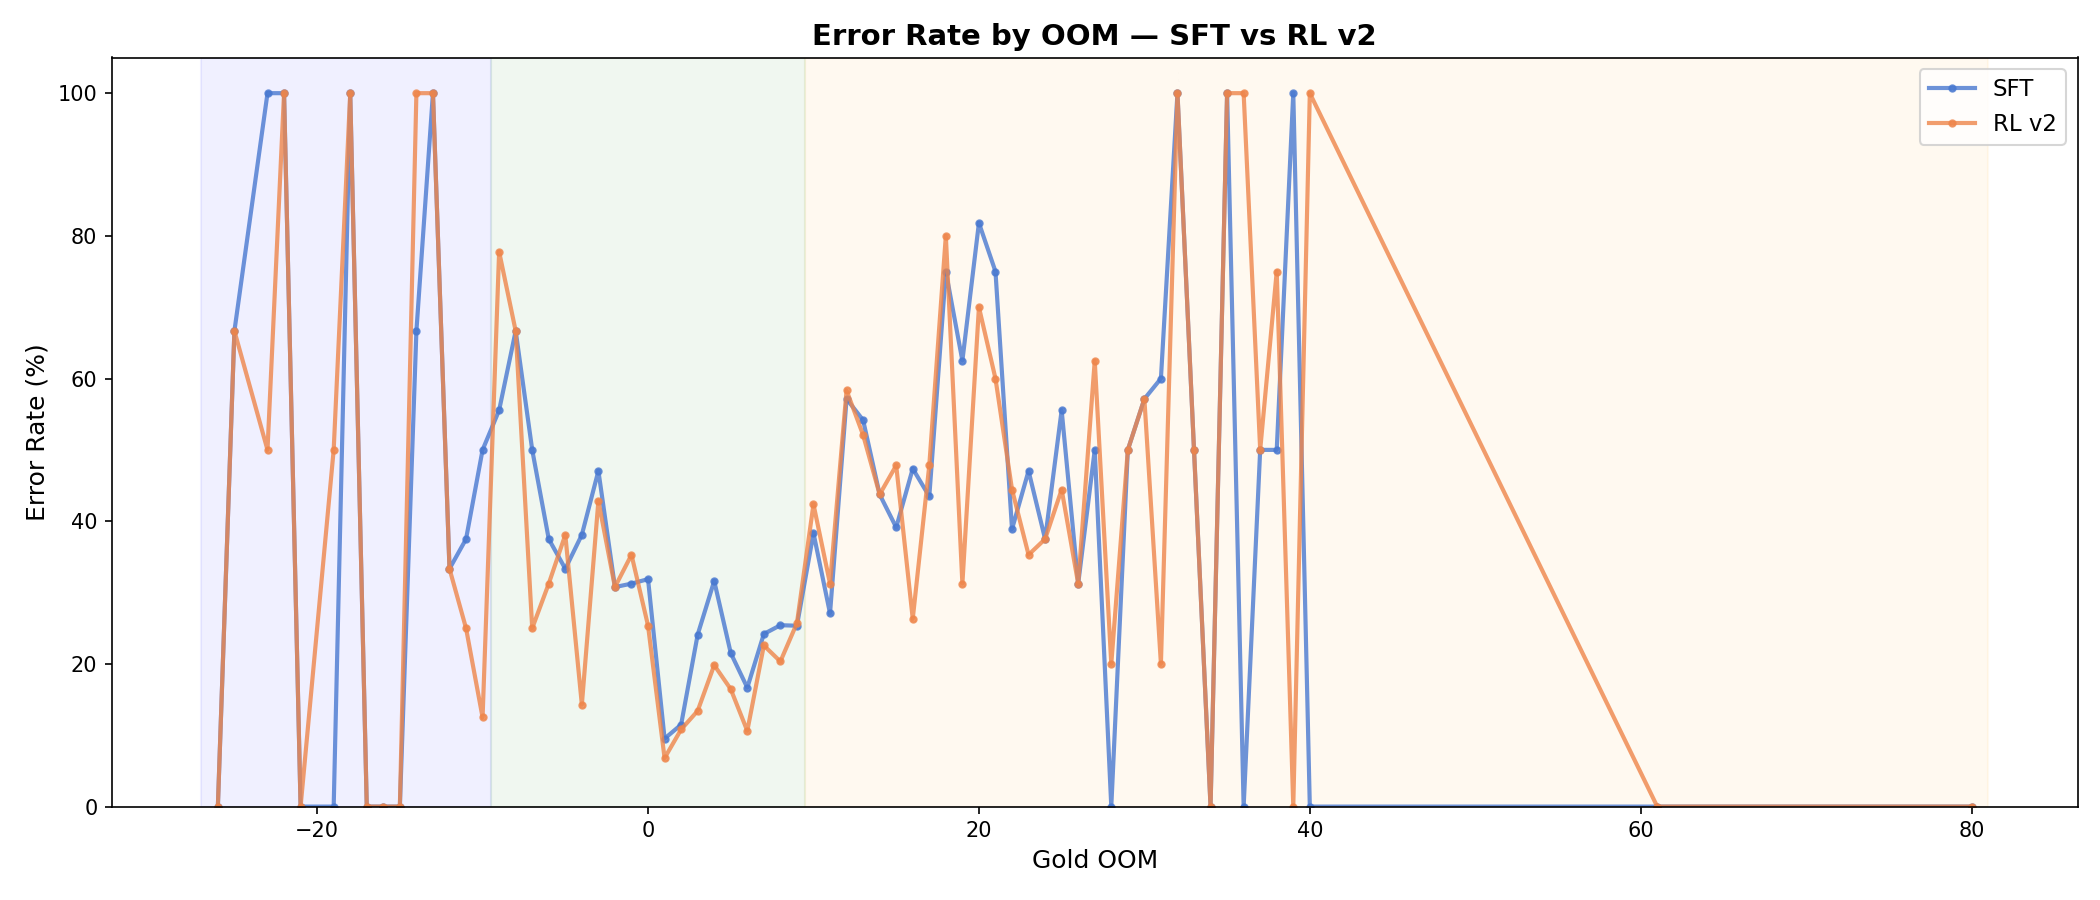
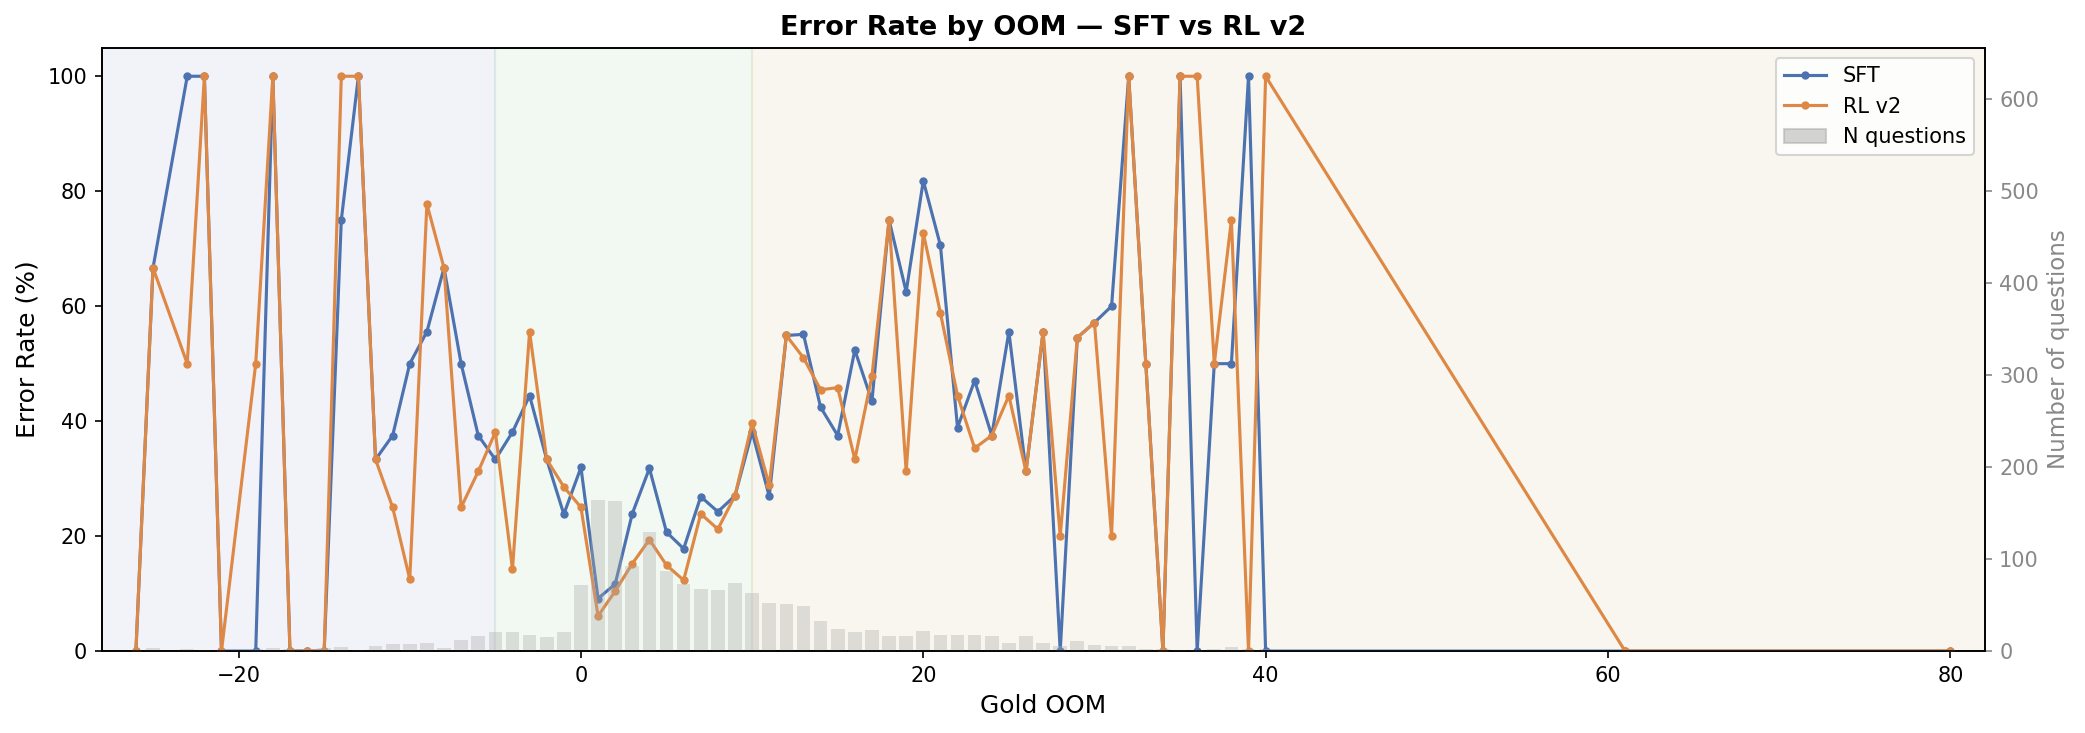
Add N-questions histogram to SFT vs RL v2 error rate plot; update report

diff --git a/scripts/plot_error_rate_sft_vs_rl.py b/scripts/plot_error_rate_sft_vs_rl.py
@@ -1,0 +1,81 @@
+"""Regenerate error_rate_sft_vs_rl.png with N-questions histogram (right axis)."""
+
+import json
+import numpy as np
+import matplotlib.pyplot as plt
+import matplotlib.patches as mpatches
+from collections import defaultdict
+from pathlib import Path
+
+ROOT = Path(__file__).parent.parent
+SFT_FILE = ROOT / "run/sft_filtered_v1_v2_val.jsonl"
+RL_FILE  = ROOT / "run/rl_v2_val.jsonl"
+OUT      = ROOT / "plots/error_rate_sft_vs_rl.png"
+
+
+def load(path):
+    with open(path) as f:
+        return [json.loads(l) for l in f]
+
+
+def error_rate_by_oom(rows, min_n=1):
+    buckets = defaultdict(list)
+    for r in rows:
+        if r.get("gold_oom") is not None:
+            buckets[int(r["gold_oom"])].append(1 if r["score"] == 0 else 0)
+    ooms, rates, ns = [], [], []
+    for oom in sorted(buckets):
+        vals = buckets[oom]
+        if len(vals) >= min_n:
+            ooms.append(oom)
+            rates.append(100 * np.mean(vals))
+            ns.append(len(vals))
+    return np.array(ooms), np.array(rates), np.array(ns)
+
+
+sft_rows = load(SFT_FILE)
+rl_rows  = load(RL_FILE)
+
+sft_ooms, sft_rates, sft_ns = error_rate_by_oom(sft_rows)
+rl_ooms,  rl_rates,  rl_ns  = error_rate_by_oom(rl_rows)
+
+# Histogram uses RL data (same val set, so N per OOM is identical)
+hist_ooms = rl_ooms
+hist_ns   = rl_ns
+
+fig, ax1 = plt.subplots(figsize=(14, 5))
+ax2 = ax1.twinx()
+
+# Background regions
+ax1.axvspan(-30, -5,  alpha=0.10, color="#8888cc", zorder=0)
+ax1.axvspan(-5,  10,  alpha=0.10, color="#88cc88", zorder=0)
+ax1.axvspan(10,  90,  alpha=0.10, color="#ccaa66", zorder=0)
+
+# Histogram (grey, behind lines)
+ax2.bar(hist_ooms, hist_ns, width=0.8, color="#aaaaaa", alpha=0.35,
+        zorder=1, label="N questions")
+ax2.set_ylabel("Number of questions", color="#888888", fontsize=11)
+ax2.tick_params(axis="y", colors="#888888")
+ax2.set_ylim(0, max(hist_ns) * 4)   # keep bars short like Image #1
+
+# Error rate lines
+ax1.plot(sft_ooms, sft_rates, color="#4c72b0", marker="o", markersize=3,
+         linewidth=1.5, label="SFT", zorder=3)
+ax1.plot(rl_ooms,  rl_rates,  color="#dd8844", marker="o", markersize=3,
+         linewidth=1.5, label="RL v2", zorder=3)
+
+ax1.set_xlabel("Gold OOM", fontsize=12)
+ax1.set_ylabel("Error Rate (%)", fontsize=12)
+ax1.set_title("Error Rate by OOM — SFT vs RL v2", fontsize=13, fontweight="bold")
+ax1.set_ylim(0, 105)
+ax1.set_xlim(min(sft_ooms.min(), rl_ooms.min()) - 2,
+             max(sft_ooms.max(), rl_ooms.max()) + 2)
+
+# Legend: combine both axes
+line_handles, line_labels = ax1.get_legend_handles_labels()
+hist_patch = mpatches.Patch(color="#aaaaaa", alpha=0.5, label="N questions")
+ax1.legend(handles=line_handles + [hist_patch], loc="upper right", fontsize=10)
+
+plt.tight_layout()
+plt.savefig(OUT, dpi=150, bbox_inches="tight")
+print(f"Saved → {OUT}")

diff --git a/REPORT.md b/REPORT.md
@@ -212,6 +212,10 @@ The model performs best on everyday-scale questions (OOM −3 to 9), which make 
 | Low (−9 to −4) | 0.449 | Degraded |
 | Very Low (≤−10) | 0.470 | Limited data |
 
+We noticed that RL v2 was underperforming and had a high failure rate on tail OOM questions. The grey histogram below shows why: the training set is heavily concentrated in the everyday OOM range (−3 to 9), leaving extreme OOMs severely underrepresented. Both SFT and RL v2 show near-identical error rates at the tails, confirming that RL did not help there.
+
+![Error Rate by OOM — SFT vs RL v2](plots/error_rate_sft_vs_rl.png)
+
 The performance cliff at extreme OOMs is caused by the **zero-gradient problem in GRPO**: when all rollouts in a batch score 0 (as commonly happens on Very High OOM questions), there is no learning signal and the policy does not improve.
 
 ### Failure Modes and Regressions
